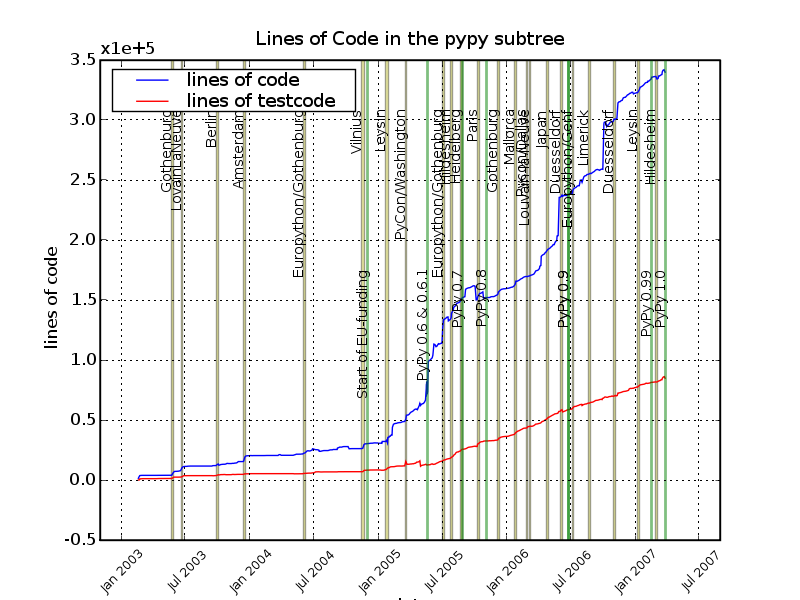
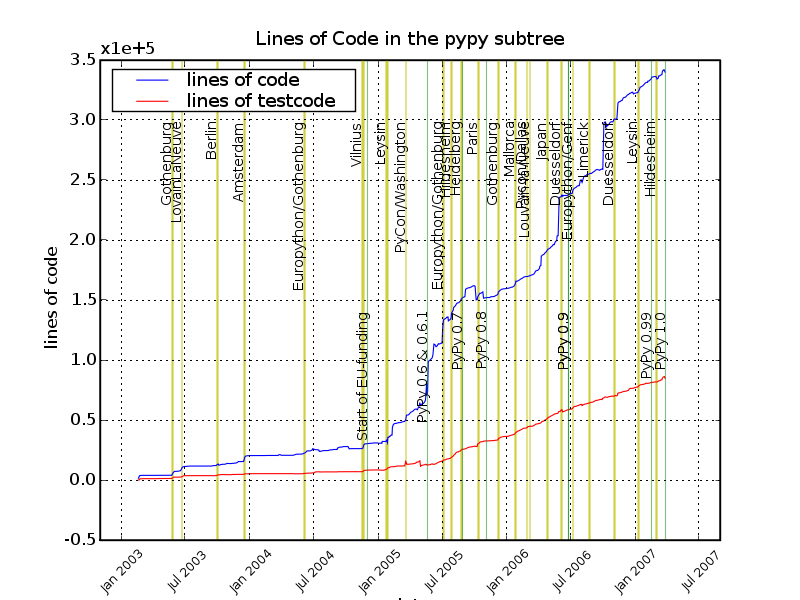
try to improve the plots (with limited success)

Changed region(s): [[0.1875, 0.09, 0.8438, 0.9]]

diff --git a/pypy/doc/statistic/format.py b/pypy/doc/statistic/format.py
@@ -60,7 +60,7 @@ def csv2png(p):
     ax = pylab.subplot(111)
     for i, d in enumerate(data[1:]):
         args = [dates, d, colors[i]]
-        pylab.plot_date(*args)
+        pylab.plot_date(linewidth=0.8, *args)
 
     ymax = max(pylab.yticks()[0]) #just below the legend
     for i, release_date in enumerate(release_dates):
@@ -69,13 +69,12 @@ def csv2png(p):
             color = 0.3
         else:
             color = "g"
-        pylab.axvline(release_date, linewidth=2, color=color, alpha=0.5)
-        ax.text(release_date, ymax * 0.5, release_name,
+        pylab.axvline(release_date, linewidth=0.8, color=color, alpha=0.5)
+        ax.text(release_date, ymax * 0.4, release_name,
                 fontsize=10,
                 horizontalalignment='right',
                 verticalalignment='top',
                 rotation='vertical')
-
     for i, location in enumerate(sprint_locations):
         begin = sprint_begin_dates[i]
         end   = sprint_end_dates[i]
@@ -84,13 +83,12 @@ def csv2png(p):
                 color = 0.8
             else:
                 color = "y"
-            pylab.axvspan(begin, end, facecolor=color, alpha=0.2)
-            ax.text(begin, ymax * 0.88, location,
+            pylab.axvspan(begin, end, linewidth=0, facecolor=color, alpha=0.5)
+            ax.text(begin, ymax * 0.85, location,
                     fontsize=10,
                     horizontalalignment='right',
                     verticalalignment='top',
                     rotation='vertical')
-
     pylab.legend(axis[1:], "upper left")
     pylab.xlabel(axis[0])
     pylab.ylabel(axis[1])
